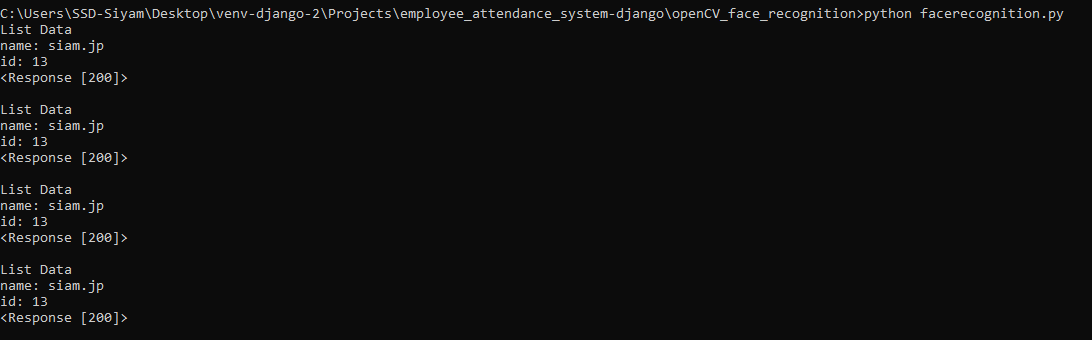
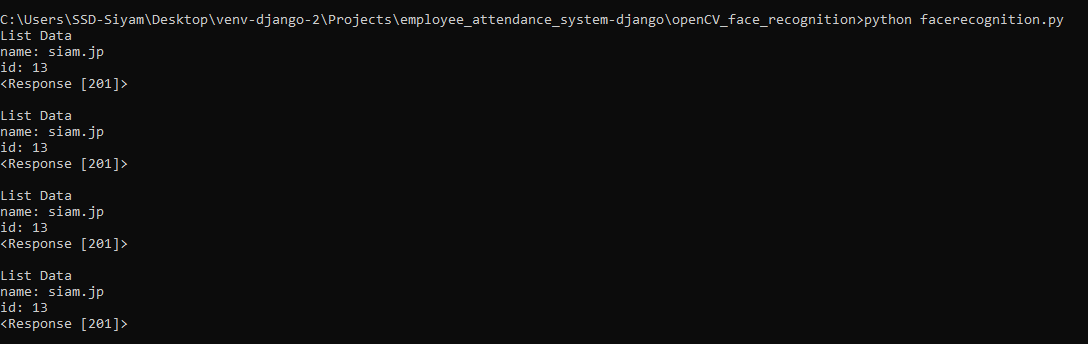
Manual input merged successfully! Need to fixed auto update and returns to template.

diff --git a/user_authentication/views.py b/user_authentication/views.py
@@ -1,10 +1,47 @@
-from django.shortcuts import render, get_object_or_404, redirect
-from rest_framework import status
+import json
+from datetime import datetime
+from django.urls import reverse
+from rest_framework import viewsets, status
 from rest_framework.response import Response
 from rest_framework.decorators import api_view
+from django.shortcuts import render, get_object_or_404, redirect
+from django.http import HttpResponse, HttpResponseRedirect, JsonResponse
+
 # Same app
 from .models import Profile, Authentication
 
+
+############################## Attendance Creating API views from OpenCV #############################
+
+class Users(viewsets.ViewSet):
+    """Receives data from OpenCV file using API"""
+    def list(self, request):
+        """Matching Process through API Data"""
+
+        # TODO: Receives only the 201 request before matching
+
+        # Receive id from OpenCV Data List
+        user_id = request.GET.get('id')
+
+        # Matching OpenCV id with Permanent Object id from Database
+        if Profile.objects.filter(pk=user_id).exists():
+            verified_id = Profile.objects.get(pk=user_id)
+
+            # If matched, then save the id with Authentication table
+            authenticate = Authentication(profile=verified_id, is_active=True)
+            authenticate.save()
+
+            # Output to the Terminal
+            print(authenticate)
+
+            # Returns Status 201 for Success!
+            return Response("Attendance Created!", status=status.HTTP_201_CREATED)
+        else:
+            # Returns Status 404 for Not Matching!
+            return Response("Profile not found!", status=status.HTTP_404_NOT_FOUND)
+
+
+################################# Manual matching views for Django ###################################
 
 def input(request):
     """Input Authenticated User's info"""
@@ -20,75 +57,31 @@ def input(request):
 
         # Mapping with saved data
         profile = get_object_or_404(Profile, id=id)
-        template = 'user_authentication/single_user.html'
+
+        template = 'user_authentication/manual_single_user.html'
         context = {'profile': profile}
+
         # Shows data if matched
         return render(request, template, context)
 
     # Returns input page if no submission
     template = 'user_authentication/input.html'
+
     return render(request, template)
 
 
 def single_user(request, id=None):
     """Returns single user's data"""
-
     profile = get_object_or_404(Profile, id=id)
     context = {'profile': profile}
     template = 'user_authentication/single_user.html'
-
     return render(request, template, context)
 
 
 def all_users(request):
     """Returns All User's info"""
-
     user_data_all = Profile.objects.all().order_by('-id')
     template = 'user_authentication/all_users.html'
     context = {'user_data_all': user_data_all}
-
     return render(request, template, context)
 
-
-@api_view(['POST'])
-def update_attendance(request):
-    """Custom API for take input from OpenCV file"""
-
-    user_id = request.POST.get('id')
-
-    if Profile.objects.filter(pk=user_id).exists():
-        verified_id = Profile.objects.get(pk=user_id)
-        authenticate = Authentication(profile=verified_id, is_active=True)
-        data = authenticate.save()
-        print(data)
-
-        return Response("Attendance Created!", status=status.HTTP_201_CREATED)
-        # return redirect('single-user', id=verified_id)
-
-    else:
-        return Response("Profile not found!", status=status.HTTP_404_NOT_FOUND)
-
-#######################################################################################
-
-from django.shortcuts import render
-from rest_framework import viewsets
-from rest_framework.response import Response
-from django.http import HttpResponse
-from django.http import HttpResponseRedirect
-from django.urls import reverse
-from django.shortcuts import redirect
-import datetime
-import json
-
-class Users(viewsets.ViewSet):
-	def list(self, request):
-		user_id = request.GET.get('id')
-		if Profile.objects.filter(pk=user_id).exists():
-			verified_id = Profile.objects.get(pk=user_id)
-			authenticate = Authentication(profile=verified_id, is_active=True)
-			data = authenticate.save()
-			print(data)
-			return Response({'message': 'Attendance Created!', 'detials': '201'})
-
-
-# HttpStreamingResponse

diff --git a/openCV_face_recognition/facerecognition.py b/openCV_face_recognition/facerecognition.py
@@ -3,7 +3,7 @@ import requests
 import face_recognition
 import numpy as np
 import cv2
-###########################################
+
 
 # make a list of all the available images
 images = os.listdir('images')
@@ -14,28 +14,34 @@ for i in os.listdir('images'):
     pic = face_recognition.load_image_file('images/'+i)
     known_face_encodings.append(face_recognition.face_encodings(pic)[0])
     known_face_names.append(i[:i.rfind('_')])
-    # TODO: create dictionary of 'known_face_names'
 
 video_capture = cv2.VideoCapture(0)
 
-while True: 
+while True:
+
     # load your image
     _, frame = video_capture.read()
     frameRGB = cv2.cvtColor(frame,cv2.COLOR_BGR2RGB)
     # image_to_be_matched = face_recognition.load_image_file('testImage/enhanced.png')
+
     # encoded the loaded image into a feature vector
     image_to_be_matched_encoded = face_recognition.face_encodings(frameRGB)
 
     if len(image_to_be_matched_encoded)>0:
+
     # iterate over each image
         for (i, image) in enumerate(known_face_encodings):
+
             # load the image
             #current_image = face_recognition.load_image_file("images/" + image)
+
             # encode the loaded image into a feature vector
             current_image_encoded = image_to_be_matched_encoded[0]
+
             # match your image with the image and check if it matches
             result = face_recognition.compare_faces([image], current_image_encoded)
             #print(result)
+
             if result[0] == True:
                 distance = np.linalg.norm(image-current_image_encoded)
                 #print(distance)
@@ -43,35 +49,33 @@ while True:
                 #print(distance1)
                 #print(distance)
                 #print(result)
+
                 #check if it was a match
                 if distance <= 0.40:
+
                     user_name = known_face_names[i]
                     id = i
-                    print("List Data\n" + "name: " + known_face_names[i] + "\nid: " + str(id))
+                    print("----OpenCV List Data----\n" + "name: " + known_face_names[i] + "\nid: " + str(id))
 
-                    # data_send = requests.post('http://localhost:8000/user/update-attendance', data={'id': id})
-                    # data_send = requests.post('http://127.0.0.1:8000/user/input/', data={'id': id})
-            ###########################################################################
-                    URL = "http://127.0.0.1:8000/users/"
+                    # URL = "http://127.0.0.1:8000/users/"
+                    URL = "http://127.0.0.1:8000/matched-user/"
 
-                    # defining a params dict for the parameters to be sent to the API 
-                    PARAMS = {'id':2}
+                    # defining a params dict for the parameters to be sent to the API
+                    PARAMS = {'id': 2}
 
-                    # sending get request and saving the response as response object 
-                    data_send = requests.get(url = URL, params = PARAMS)
-                    ###########################################################################
-                    # data_send = requests.post('http://127.0.0.1:8000/users/', data={'id': id})
+                    # TODO: Check this condition before data send. Make sure only 201 will be sent
+                    # sending get request and saving the response as response object
+                    data_send = requests.get(url=URL, params=PARAMS)
+
                     print(data_send, '\n')
-
-                # else:
-                #     print("Not matched: " + known_face_names[i])
-
 
     # Display the resulting image
     cv2.imshow('Video', frame)
+
     # Hit 'q' on the keyboard to quit!
     if cv2.waitKey(1) & 0xFF == ord('q'):
         break
-# Release handle to the webcam
+
+# Release handle to the WebCam
 video_capture.release()
 cv2.destroyAllWindows()

diff --git a/source/urls.py b/source/urls.py
@@ -13,33 +13,37 @@ Including another URLconf
     1. Import the include() function: from django.urls import include, path
     2. Add a URL to urlpatterns:  path('blog/', include('blog.urls'))
 """
-from django.conf import settings
-from django.contrib import admin
-from django.urls import path, include
-from django.conf.urls.static import static
 
-###############################################
 from django.urls import path
-from django.conf.urls import url, include
-from rest_framework import routers
-from user_authentication import views
+from django.contrib import admin
 from django.conf import settings
+from rest_framework import routers
+from django.conf.urls import url, include
 from django.conf.urls.static import static
 
-router = routers.DefaultRouter()
-router.register(r'users', views.Users, basename='users')
+# App views
+from user_authentication.views import Users
 
+
+# Router DRF
+router = routers.DefaultRouter()
+router.register(r'matched-user', Users, basename='matched-user')
 
 
 urlpatterns = [
 
-	# System dashboard path
-	path('admin/', admin.site.urls),
-	# user_authentication app's path
-	path('user/', include('user_authentication.urls')),
-	#################################################
-	path('api-auth/', include('rest_framework.urls')),
-	url(r'^', include(router.urls)),
+    # System dashboard path
+    path('admin/', admin.site.urls),
+
+    # user_authentication app's path
+    path('user/', include('user_authentication.urls')),
+
+    # API path
+    path('api-auth/', include('rest_framework.urls')),
+
+    # Router path
+    url(r'^', include(router.urls)),
+
 
 ] + static(settings.MEDIA_URL, document_root=settings.MEDIA_ROOT)
 

diff --git a/user_authentication/urls.py b/user_authentication/urls.py
@@ -1,15 +1,16 @@
 from django.urls import path
 
 # Same app
-from .views import input, single_user, all_users, update_attendance
+from .views import input, single_user, all_users
 
 
 urlpatterns = [
 
     path('input/', input, name='input'),
+    # path('auto-input/', auto_input, name='auto-input'),
     path('all-users/', all_users, name='all-users'),
     path('single-user/<int:id>/', single_user, name='single-user'),
-    path('update-attendance', update_attendance, name='update-attendance')
+    # path('update-attendance', update_attendance, name='update-attendance')
 
 ]
 

diff --git a/user_authentication/models.py b/user_authentication/models.py
@@ -13,7 +13,7 @@ class Profile(models.Model):
 
 
 class Authentication(models.Model):
-    """Changing Status of a user"""
+    """Changing Status of a User based on real OpenCV Data"""
 
     profile = models.ForeignKey(Profile, on_delete=models.CASCADE)
     date_time = models.DateTimeField(auto_now_add=True)
